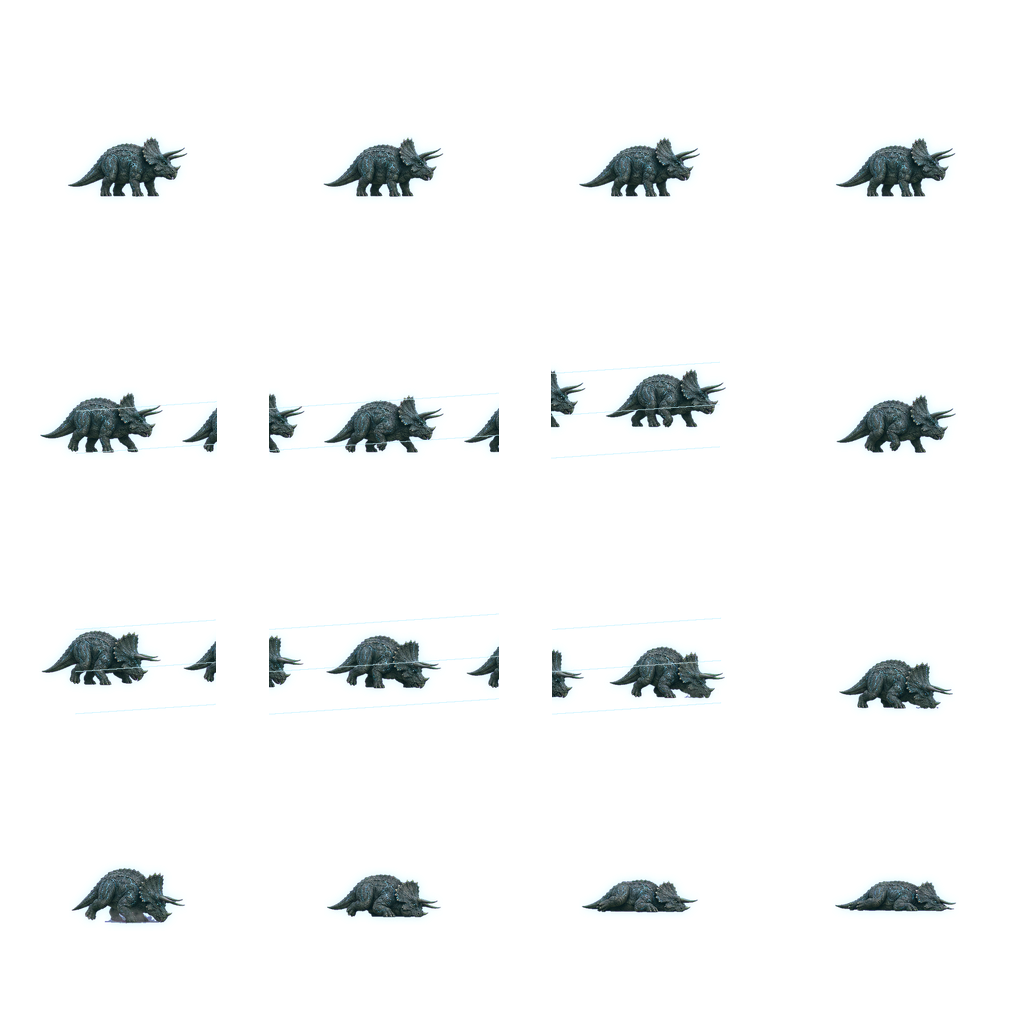
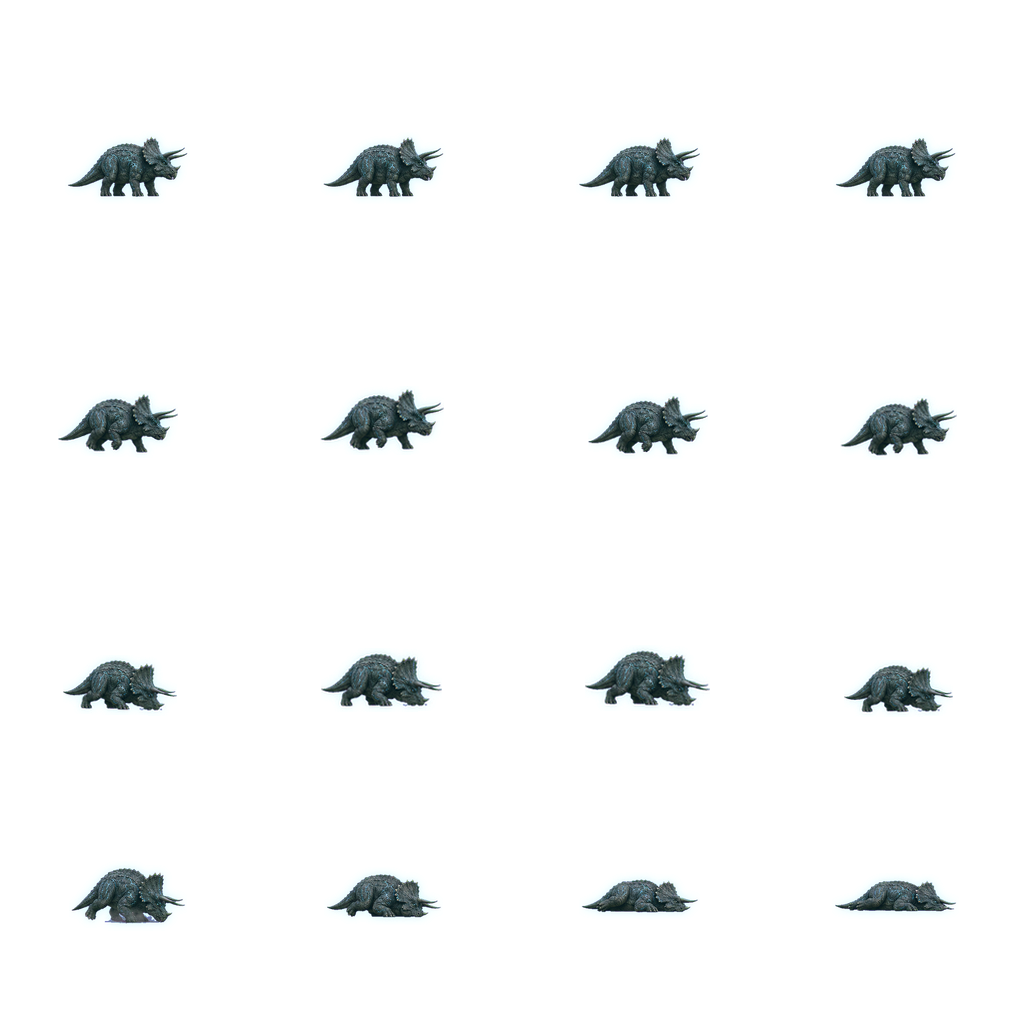
Fix Seravel sheet artifacts and audio resume

diff --git a/src/audio/audio_manager.js b/src/audio/audio_manager.js
@@ -34,6 +34,7 @@ export class AudioManager {
     this.suspendedBgmTime = 0;
     this.lastBgmEnsureAt = 0;
     this.pageBlurSuspendTimer = null;
+    this.audioResumeRetryTimer = null;
   }
 
   setVolume(volume) {
@@ -83,6 +84,7 @@ export class AudioManager {
 
     this.handlePageHidden = () => {
       this.clearPageBlurSuspendTimer();
+      this.clearAudioResumeRetryTimer();
       this.suspendForPageHide();
     };
     this.handleVisibilityChange = () => {
@@ -98,6 +100,18 @@ export class AudioManager {
       this.clearPageBlurSuspendTimer();
       if (!document.hidden) {
         this.resumeFromPageShow();
+      }
+    };
+    this.handleAudioResumeGesture = () => {
+      if (document.hidden) {
+        return;
+      }
+
+      if (this.pageAudioSuspended) {
+        this.resumeFromPageShow({ userGesture: true });
+      } else {
+        this.resumeAudioContext({ userGesture: true });
+        this.resumeCurrentBgmIfNeeded();
       }
     };
     this.handleWindowBlur = () => {
@@ -116,6 +130,8 @@ export class AudioManager {
     window.addEventListener('blur', this.handleWindowBlur, { passive: true });
     window.addEventListener('pageshow', this.handlePageShown, { passive: true });
     window.addEventListener('focus', this.handlePageShown, { passive: true });
+    window.addEventListener('pointerdown', this.handleAudioResumeGesture, { passive: true, capture: true });
+    window.addEventListener('touchstart', this.handleAudioResumeGesture, { passive: true, capture: true });
   }
 
   clearPageBlurSuspendTimer() {
@@ -125,6 +141,15 @@ export class AudioManager {
 
     window.clearTimeout(this.pageBlurSuspendTimer);
     this.pageBlurSuspendTimer = null;
+  }
+
+  clearAudioResumeRetryTimer() {
+    if (!this.audioResumeRetryTimer || typeof window === 'undefined') {
+      return;
+    }
+
+    window.clearTimeout(this.audioResumeRetryTimer);
+    this.audioResumeRetryTimer = null;
   }
 
   ensurePageActiveForPlayback() {
@@ -145,7 +170,7 @@ export class AudioManager {
     }
 
     this.pageAudioSuspended = true;
-    this.wasBgmPlayingBeforePageHide = Boolean(this.currentBgm && !this.currentBgm.paused && !this.muted);
+    this.wasBgmPlayingBeforePageHide = Boolean(this.currentBgmId && !this.muted);
 
     if (this.currentBgm) {
       this.currentBgm.pause();
@@ -169,7 +194,7 @@ export class AudioManager {
     this.setMediaSessionState('paused');
   }
 
-  resumeFromPageShow() {
+  resumeFromPageShow({ userGesture = false } = {}) {
     if (!this.pageAudioSuspended) {
       this.clearPageBlurSuspendTimer();
       return;
@@ -178,9 +203,7 @@ export class AudioManager {
     this.clearPageBlurSuspendTimer();
     this.pageAudioSuspended = false;
 
-    if (this.audioContext?.state === 'suspended' && this.isUnlocked) {
-      this.audioContext.resume().catch(() => {});
-    }
+    this.resumeAudioContext({ userGesture });
 
     if (this.wasBgmPlayingBeforePageHide && this.suspendedBgmId && !this.muted) {
       this.playBgm(this.suspendedBgmId, {
@@ -196,6 +219,56 @@ export class AudioManager {
     this.suspendedBgmTime = 0;
   }
 
+  ensureAudioContext() {
+    if (typeof window === 'undefined') {
+      return null;
+    }
+
+    const Context = window.AudioContext || window.webkitAudioContext;
+    if (!Context) {
+      return null;
+    }
+
+    if (!this.audioContext || this.audioContext.state === 'closed') {
+      this.audioContext = new Context();
+      this.isUnlocked = false;
+    }
+
+    return this.audioContext;
+  }
+
+  resumeAudioContext({ userGesture = false } = {}) {
+    const context = this.audioContext;
+
+    if (!context) {
+      return;
+    }
+
+    if (context.state === 'running') {
+      this.clearAudioResumeRetryTimer();
+      this.refreshAudioRouting();
+      this.warmupEssentialBuffers();
+      return;
+    }
+
+    if (context.state === 'closed') {
+      this.audioContext = null;
+      this.isUnlocked = false;
+      return;
+    }
+
+    context.resume().then(() => {
+      this.clearAudioResumeRetryTimer();
+      this.refreshAudioRouting();
+      this.warmupEssentialBuffers();
+      this.resumeCurrentBgmIfNeeded();
+    }).catch((error) => {
+      if (userGesture) {
+        this.warnOnce('audio-resume', 'Audio context resume skipped', error);
+      }
+    });
+  }
+
   unlockAudio() {
     if (typeof window === 'undefined') {
       return;
@@ -203,20 +276,12 @@ export class AudioManager {
 
     try {
       this.ensurePageActiveForPlayback();
-      const Context = window.AudioContext || window.webkitAudioContext;
-
-      if (Context) {
-        this.audioContext = this.audioContext ?? new Context();
-
-        if (this.audioContext.state === 'suspended') {
-          this.audioContext.resume().catch(() => {});
-        }
-      } else if (this.audioContext?.state === 'suspended') {
-        this.audioContext.resume().catch(() => {});
-      }
+      this.ensureAudioContext();
+      this.resumeAudioContext({ userGesture: true });
 
       if (this.isUnlocked) {
         this.refreshAudioRouting();
+        this.warmupEssentialBuffers();
         this.resumeCurrentBgmIfNeeded();
         return;
       }
@@ -230,6 +295,7 @@ export class AudioManager {
 
       this.isUnlocked = true;
       this.refreshAudioRouting();
+      this.warmupEssentialBuffers();
       this.resumeCurrentBgmIfNeeded();
     } catch (error) {
       this.warnOnce('unlock', 'Audio unlock skipped', error);
@@ -511,7 +577,11 @@ export class AudioManager {
   }
 
   playBufferedAudio(id, entry, options = {}) {
-    if (!this.shouldUseBufferedPlayback(entry) || !this.audioContext) {
+    if (
+      !this.shouldUseBufferedPlayback(entry)
+      || !this.audioContext
+      || this.audioContext.state !== 'running'
+    ) {
       return false;
     }
 
@@ -575,6 +645,43 @@ export class AudioManager {
     });
 
     return true;
+  }
+
+  warmupEssentialBuffers() {
+    this.warmupBufferedAudio([
+      'ui_select',
+      'ui_click',
+      'ui_decide',
+      'ui_confirm',
+      'ui_cancel',
+      'attack',
+      'raptor_attack_se',
+      'triceratops_attack_se',
+      'tyrannosaurus_bite_se',
+      'enemy_hit',
+      'boss_warning',
+      'zero_boss_warning',
+      'zero_warning',
+      'zero_phase_warning',
+      'zero_final_protocol',
+    ]);
+  }
+
+  warmupBufferedAudio(ids = []) {
+    if (!this.audioContext || this.audioContext.state !== 'running') {
+      return;
+    }
+
+    ids.forEach((id) => {
+      const entry = AUDIO_PATHS[id];
+      if (!entry || !this.shouldUseBufferedPlayback(entry)) {
+        return;
+      }
+
+      this.getAudioBuffer(entry).catch((error) => {
+        this.warnOnce(id, `Audio buffer warmup skipped: ${entry.path}`, error);
+      });
+    });
   }
 
   applyBufferInterruptControls(record, options = {}) {

diff --git a/src/data/asset_manifest.js b/src/data/asset_manifest.js
@@ -885,14 +885,14 @@ export const ASSET_MANIFEST = {
       path: 'assets/dinos/evolutions/sheets/triceratops_speed_sheet.png',
       spriteSheet: true,
       fallbackKey: 'dinos.triceratopsSheet',
-      note: 'MVP-127 speed evolution triceratops 4x4 sprite sheet. Falls back to base triceratops sheet.',
+      note: 'MVP-127 speed evolution triceratops 4x4 sprite sheet. Post-release RC cleaned move/attack row cross-cell leftovers; falls back to base triceratops sheet.',
       postprocess: {
         tool: 'tools/sprite_sheet_postprocess.py',
         targetWidth: 230,
         targetHeight: 168,
         footLine: 204,
         overlap: 82,
-        report: 'docs/assets/triceratops_speed_sheet_mvp127_report.json',
+        report: 'docs/assets/seravel_speed_sheet_fix_report.json',
       },
       sheet: {
         columns: 4,

diff --git a/src/core/screen_manager.js b/src/core/screen_manager.js
@@ -74,6 +74,9 @@ export class ScreenManager {
       'jungle_bgm',
       'zero_bgm',
       'normal_boss_bgm',
+      'boss_warning',
+      'zero_boss_warning',
+      'zero_warning',
       'result_clear_jingle',
       'result_zero_clear_jingle',
     ]);